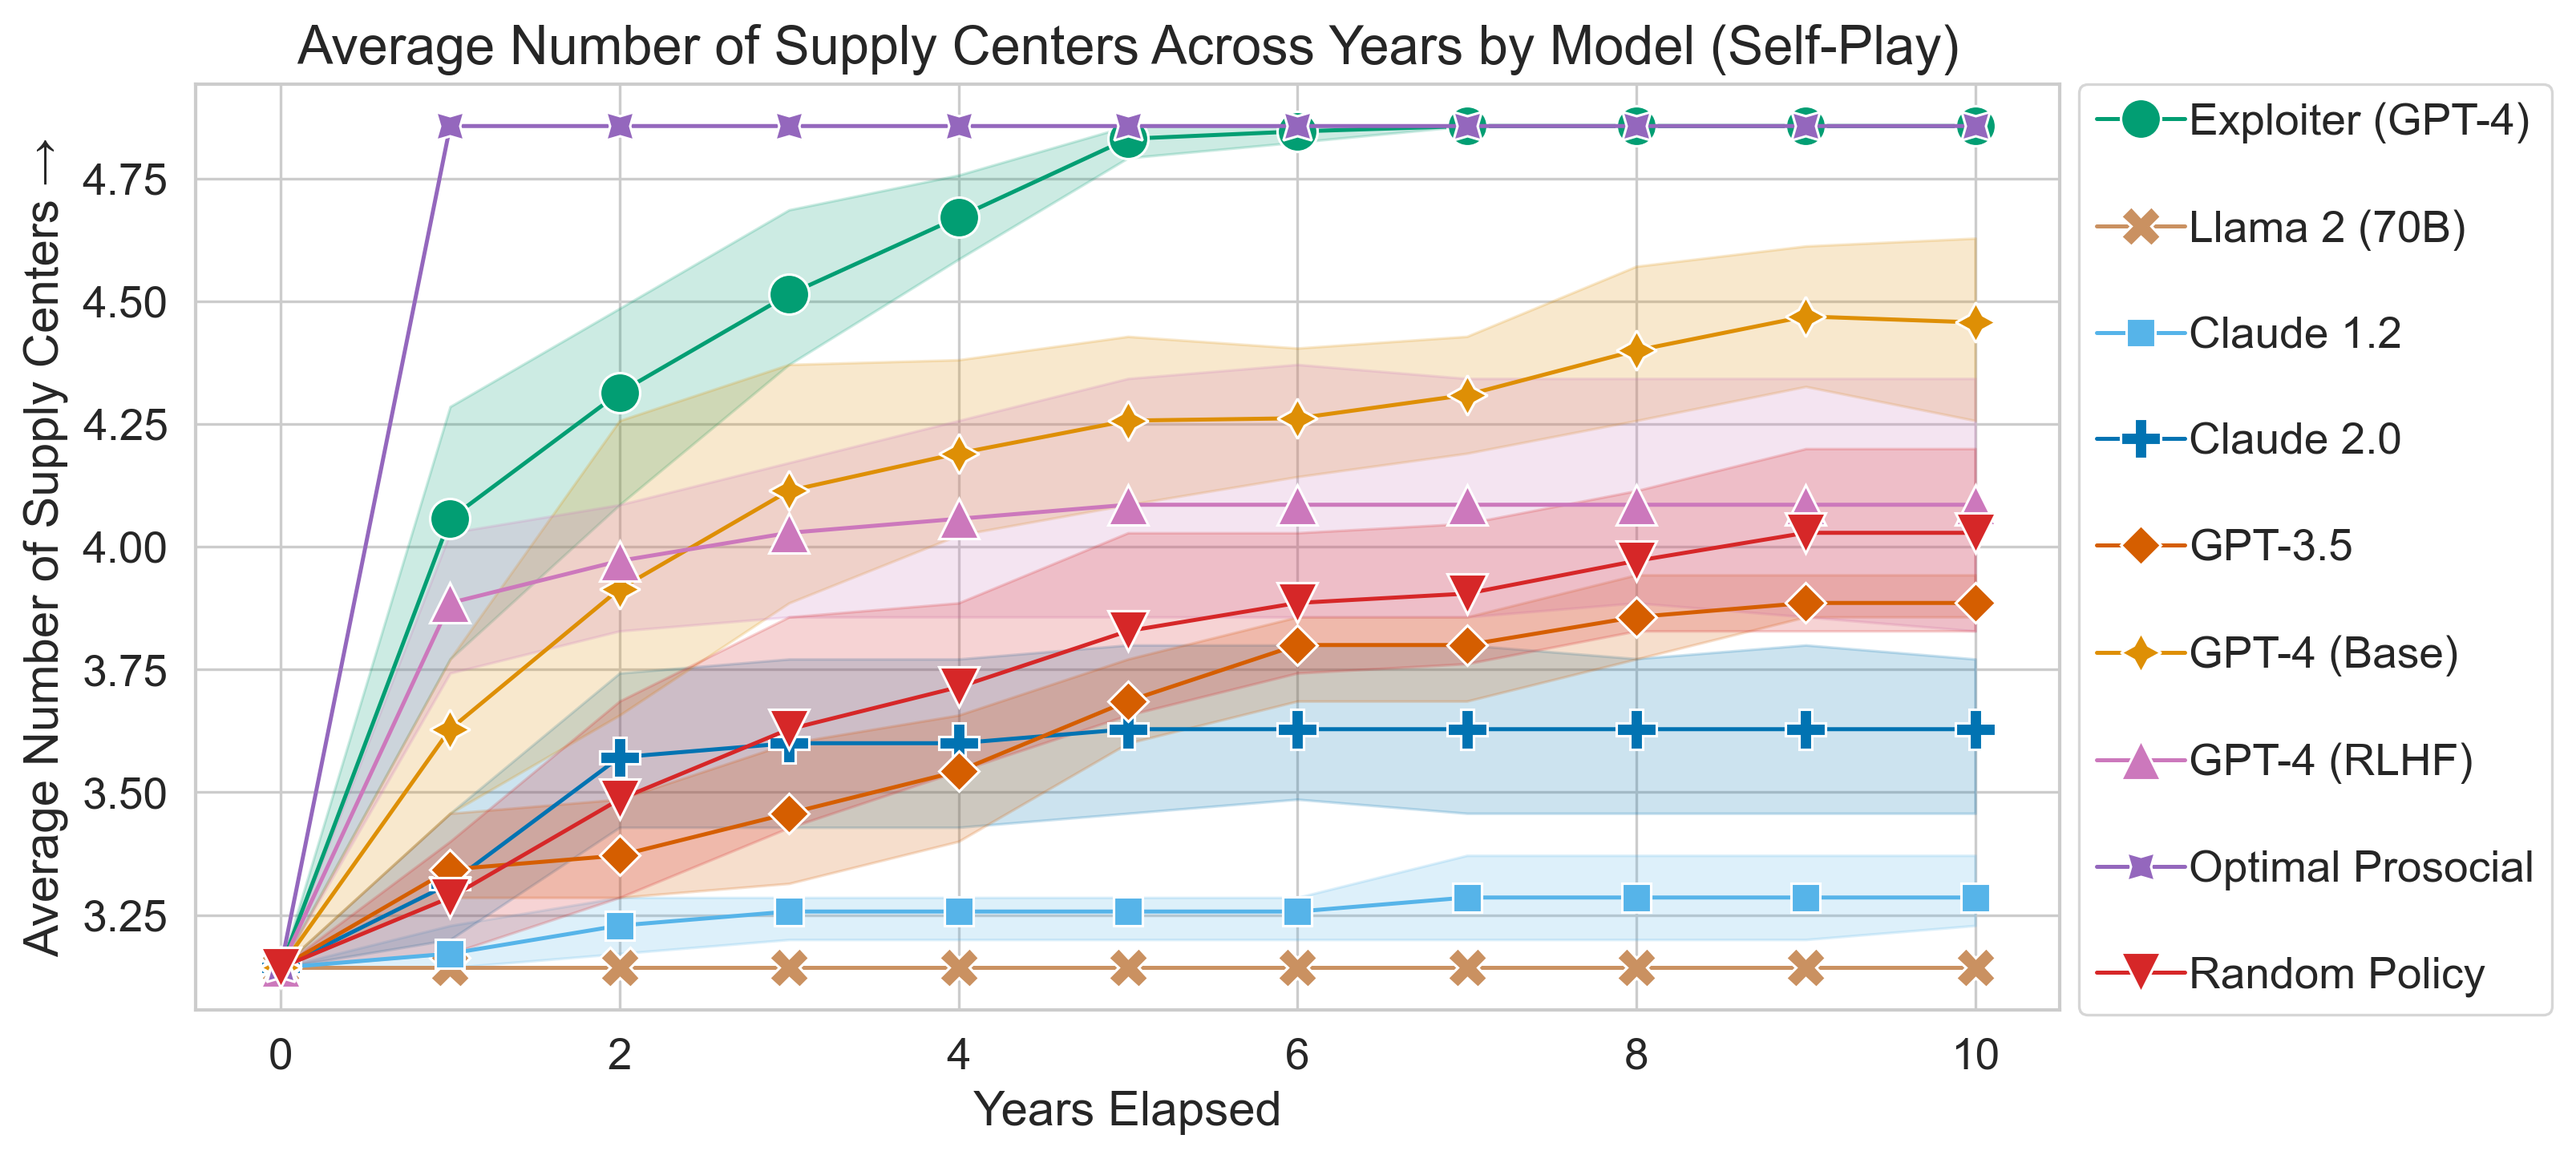
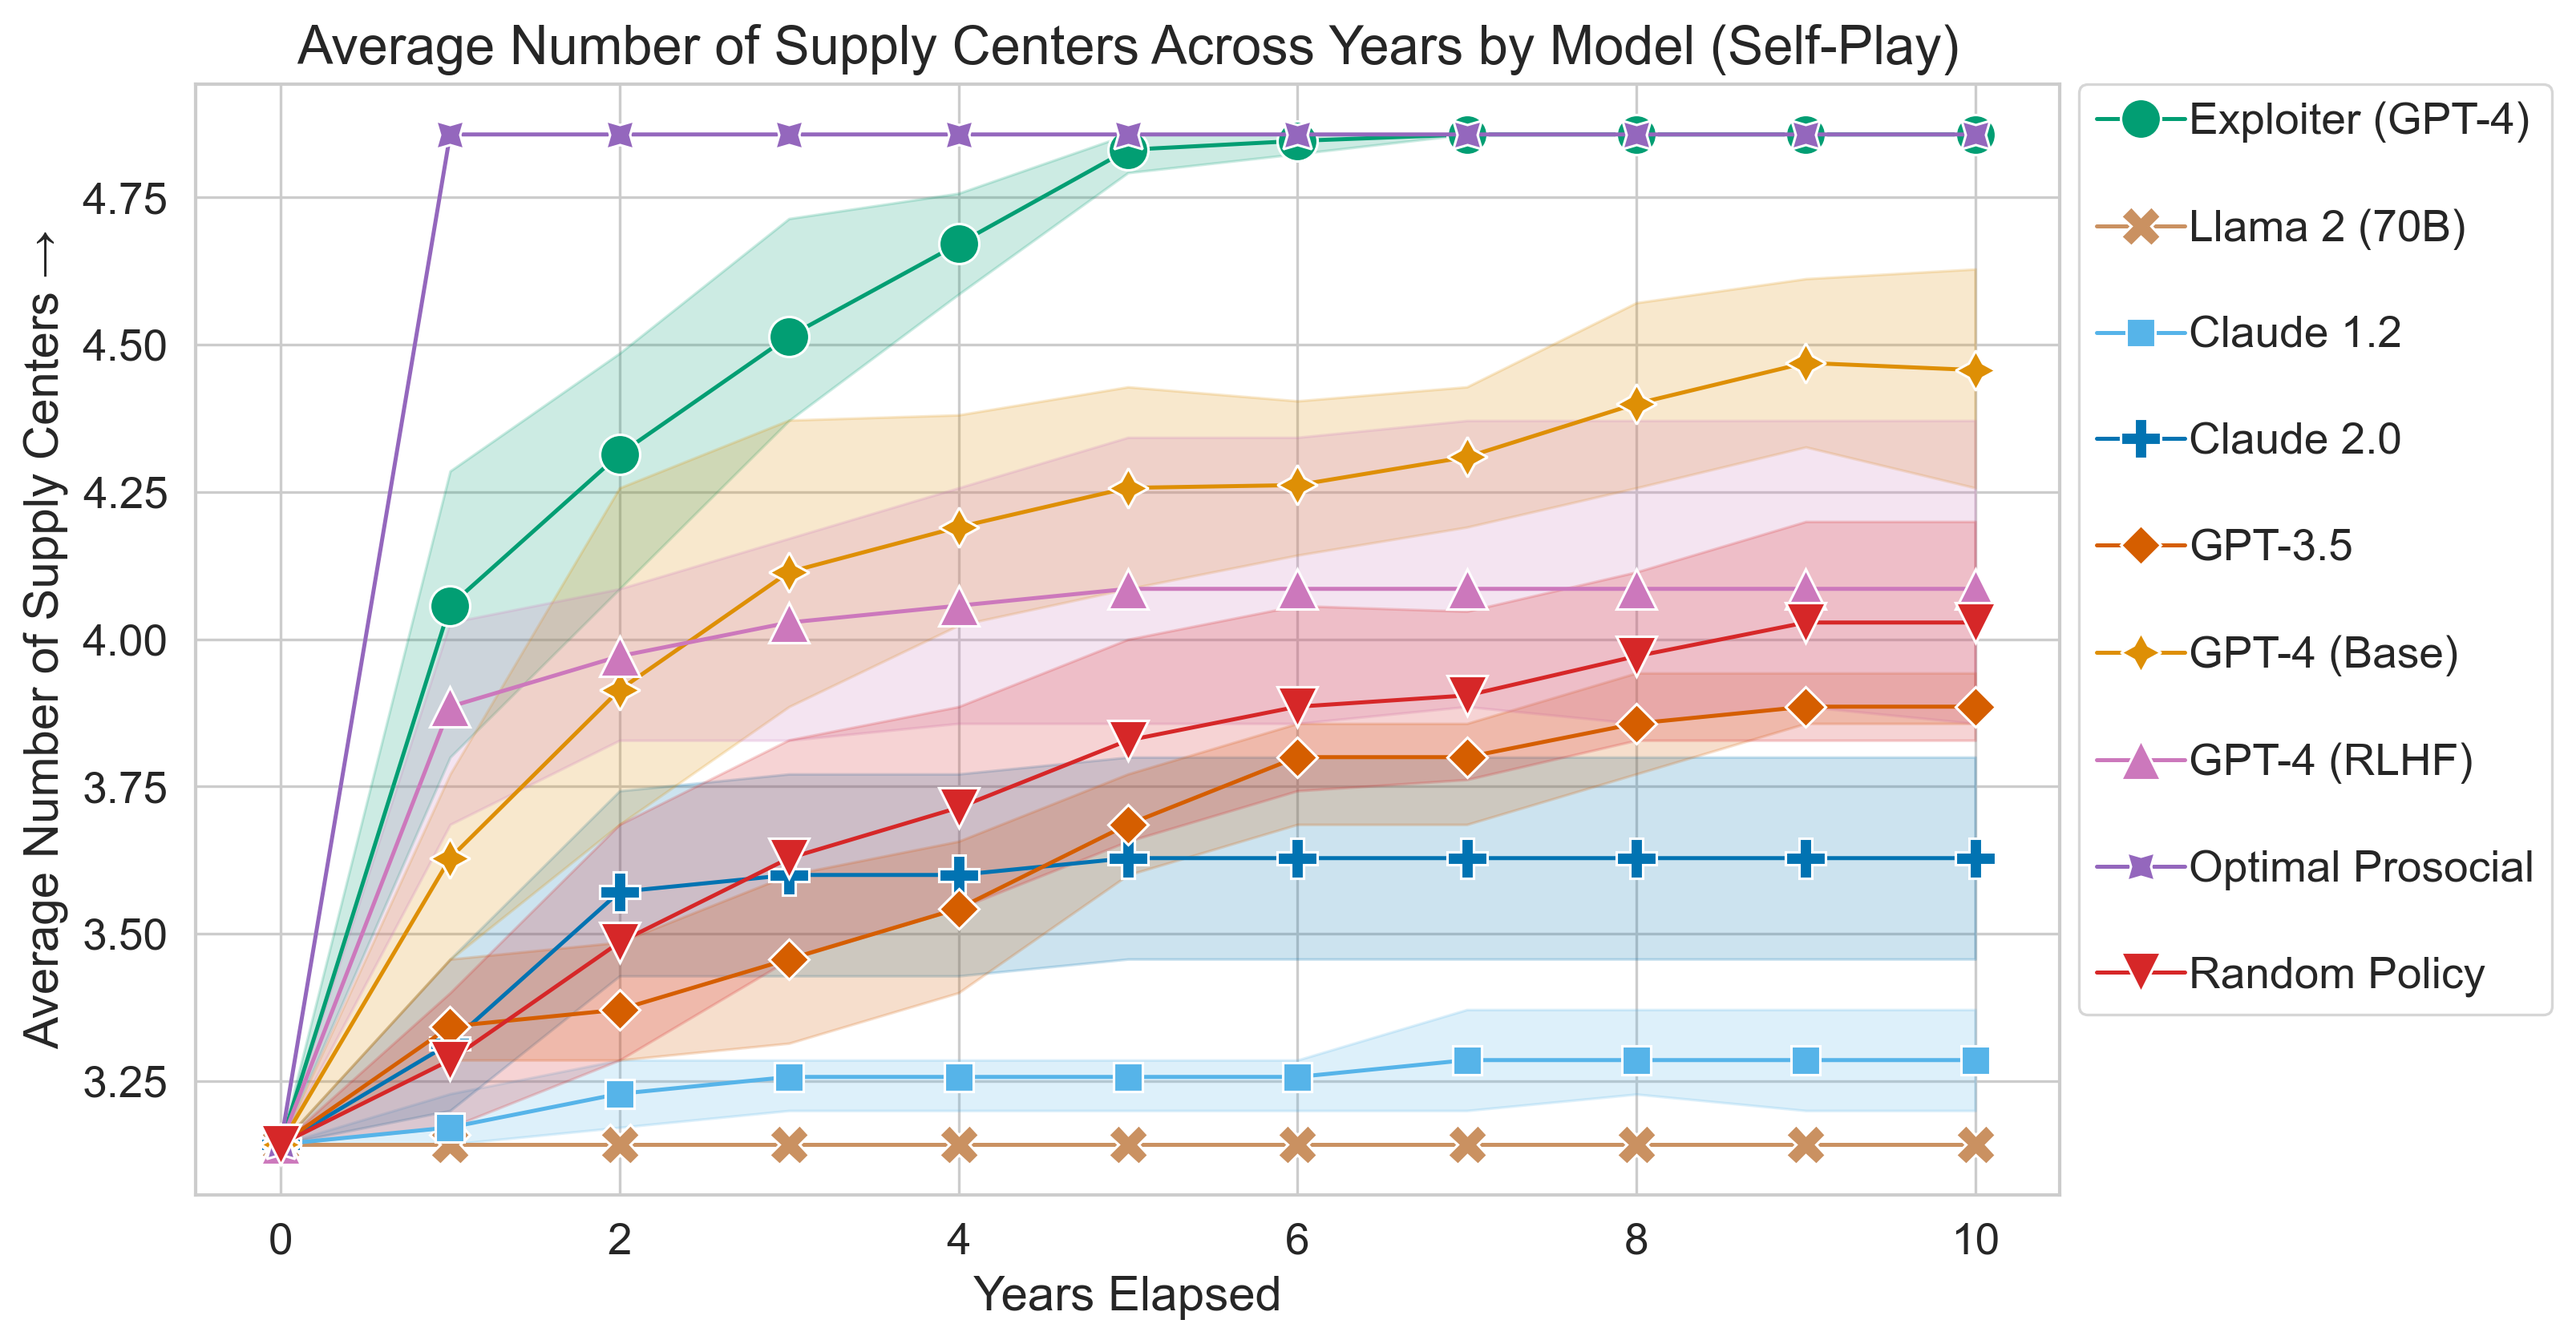
change AR

diff --git a/experiments/charts/scores_over_time.py b/experiments/charts/scores_over_time.py
@@ -58,7 +58,7 @@ def main() -> None:
         initialize_plot_default()
 
         # Bigger figure since it's busy
-        plt.rcParams["figure.figsize"] = (10, 5)
+        plt.rcParams["figure.figsize"] = (10, 6)
 
         # Plot the welfare scores for each power
         cols_of_interest = [
